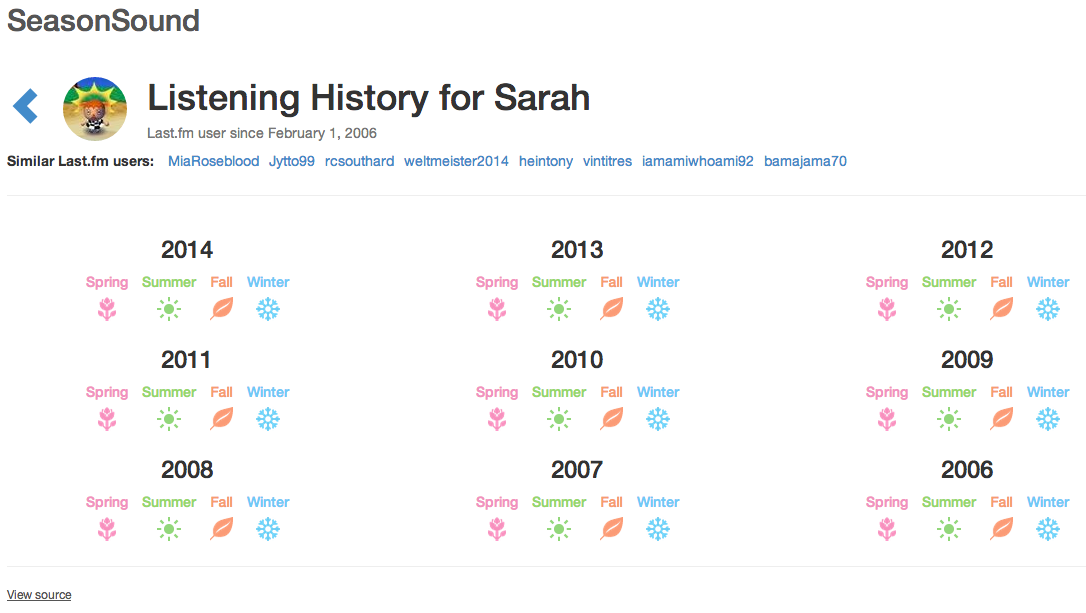
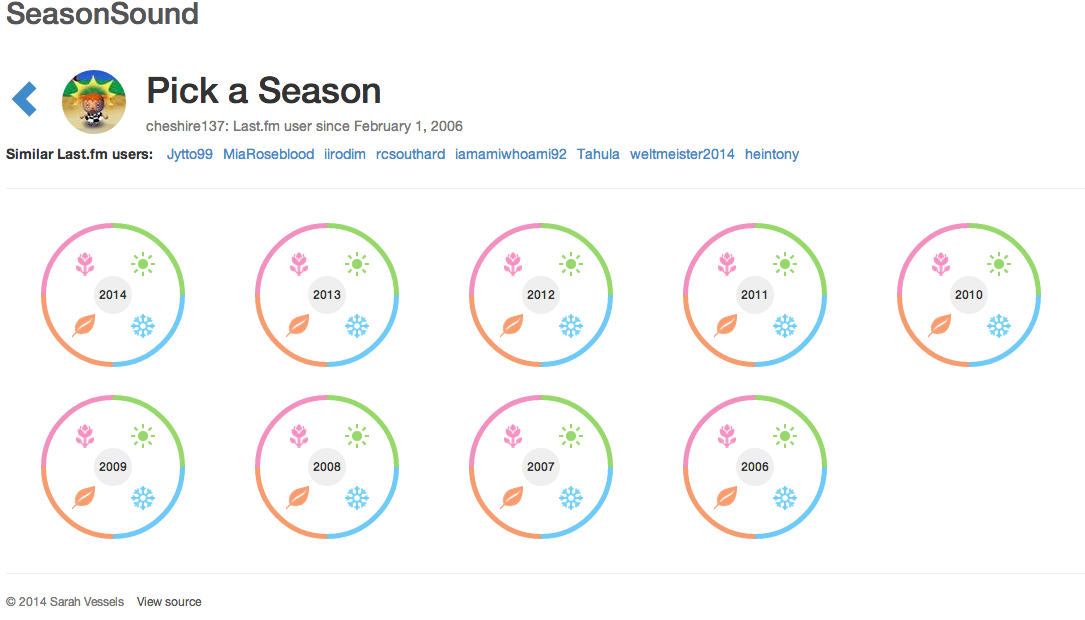
Update screenshots, add to do list

diff --git a/README.md b/README.md
@@ -14,6 +14,11 @@ Make spring, summer, fall, and winter playlists from your listening history on L
 
 ![Playlist creation](https://raw.githubusercontent.com/moneypenny/seasonal-playlister/master/screenshot3.png)
 
+## To Do
+
+- Add ability to create playlists with Google Music. Maybe wait until there's an official public API. :/
+- Allow signing into Last.fm to access private scrobbles.
+
 ## How to Develop
 
 1. `npm install -g bower`
